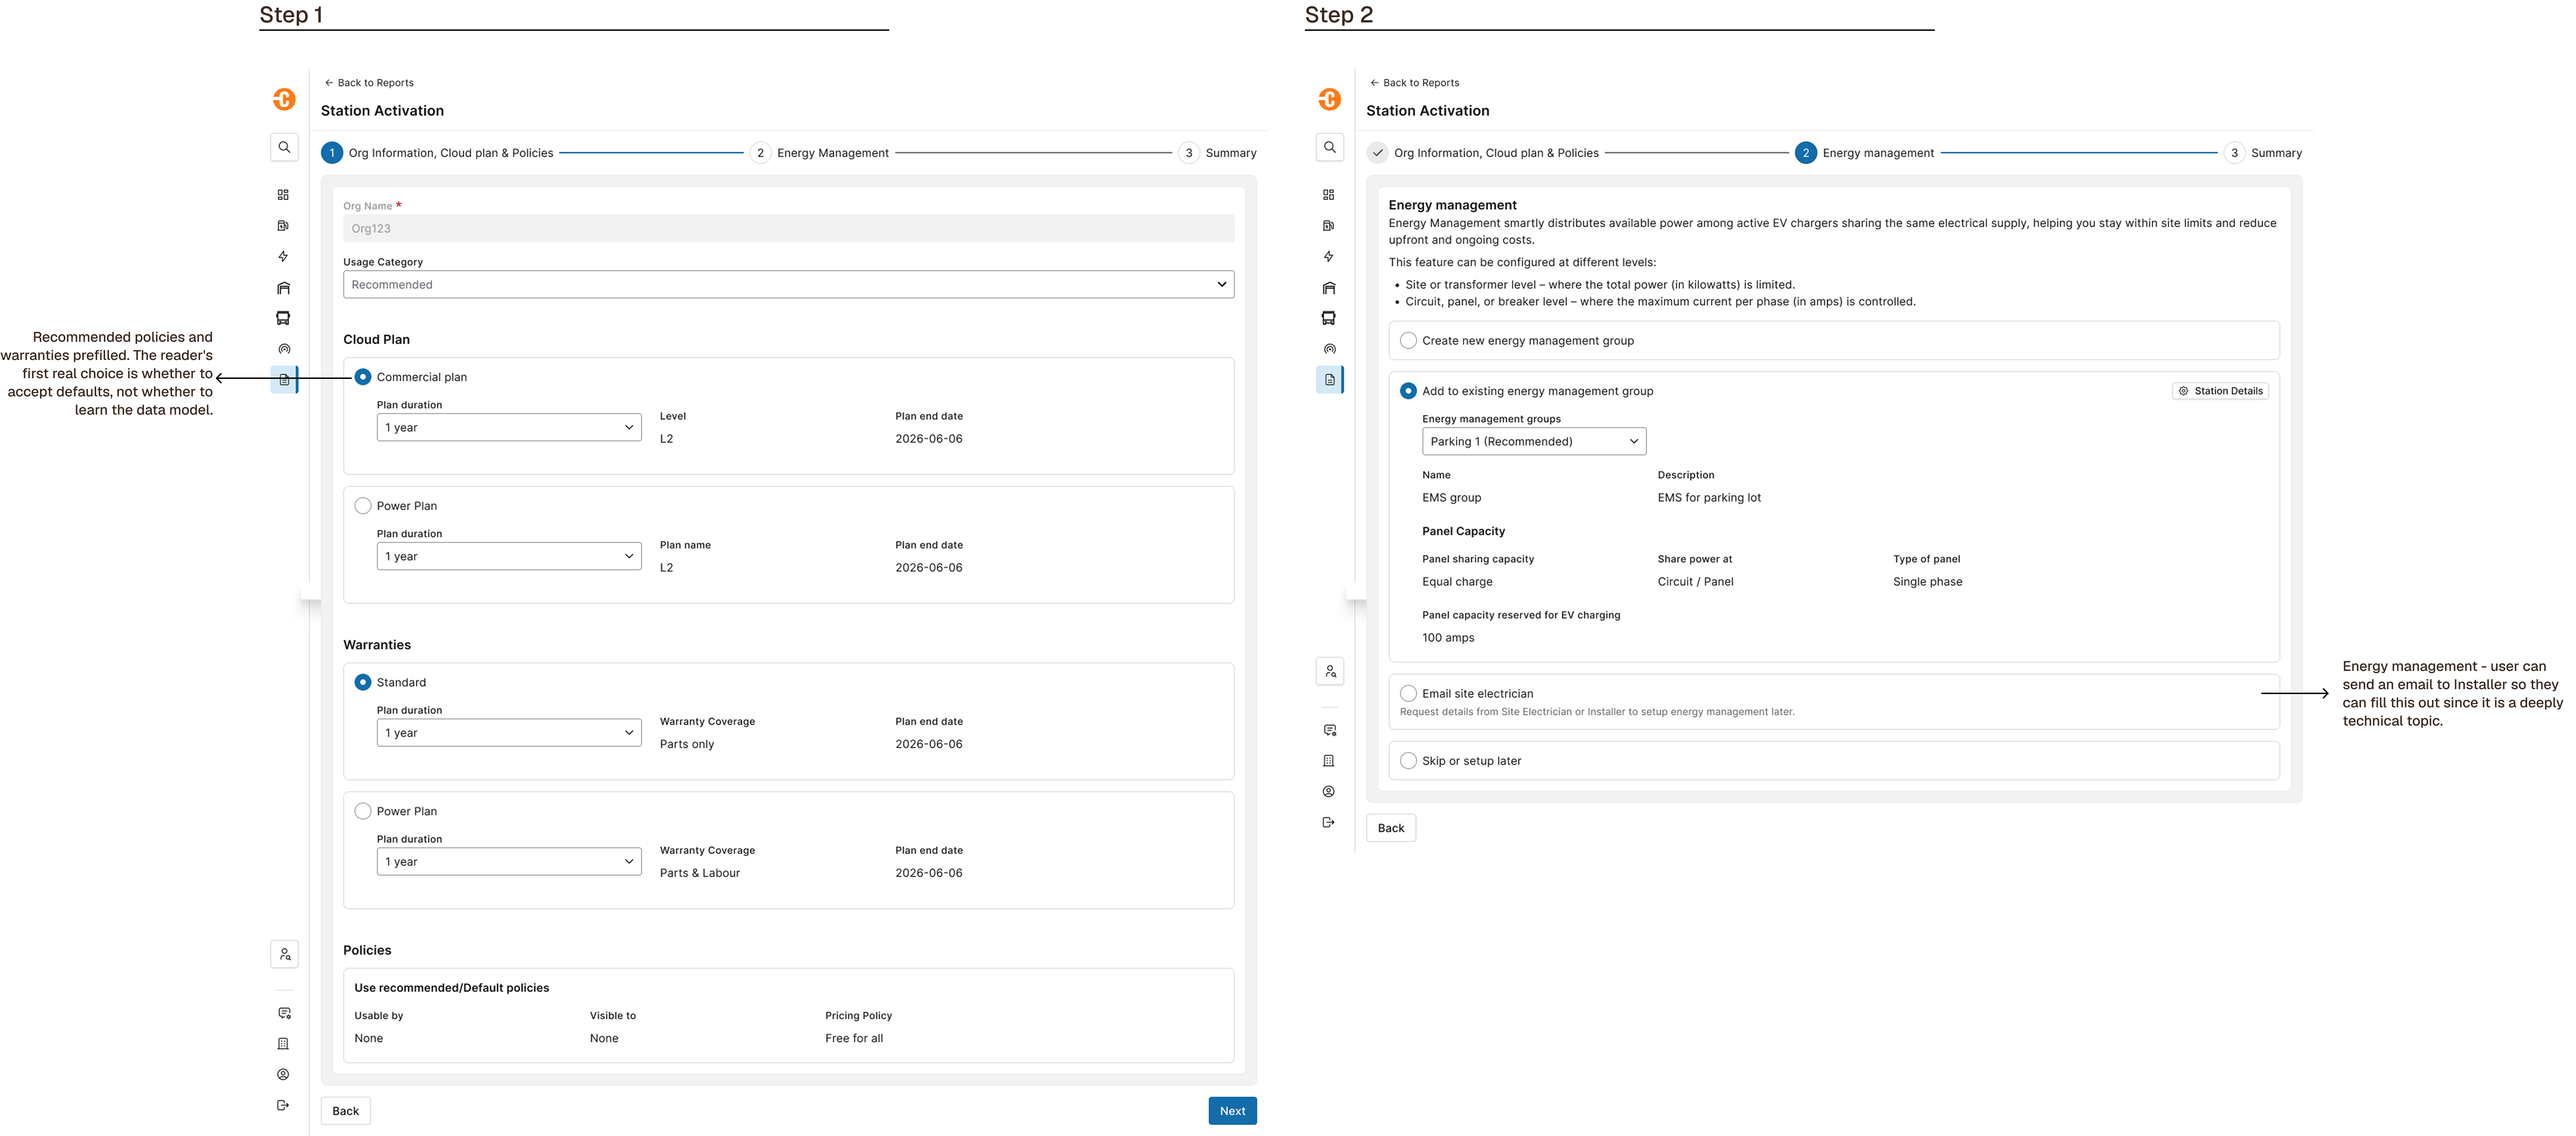
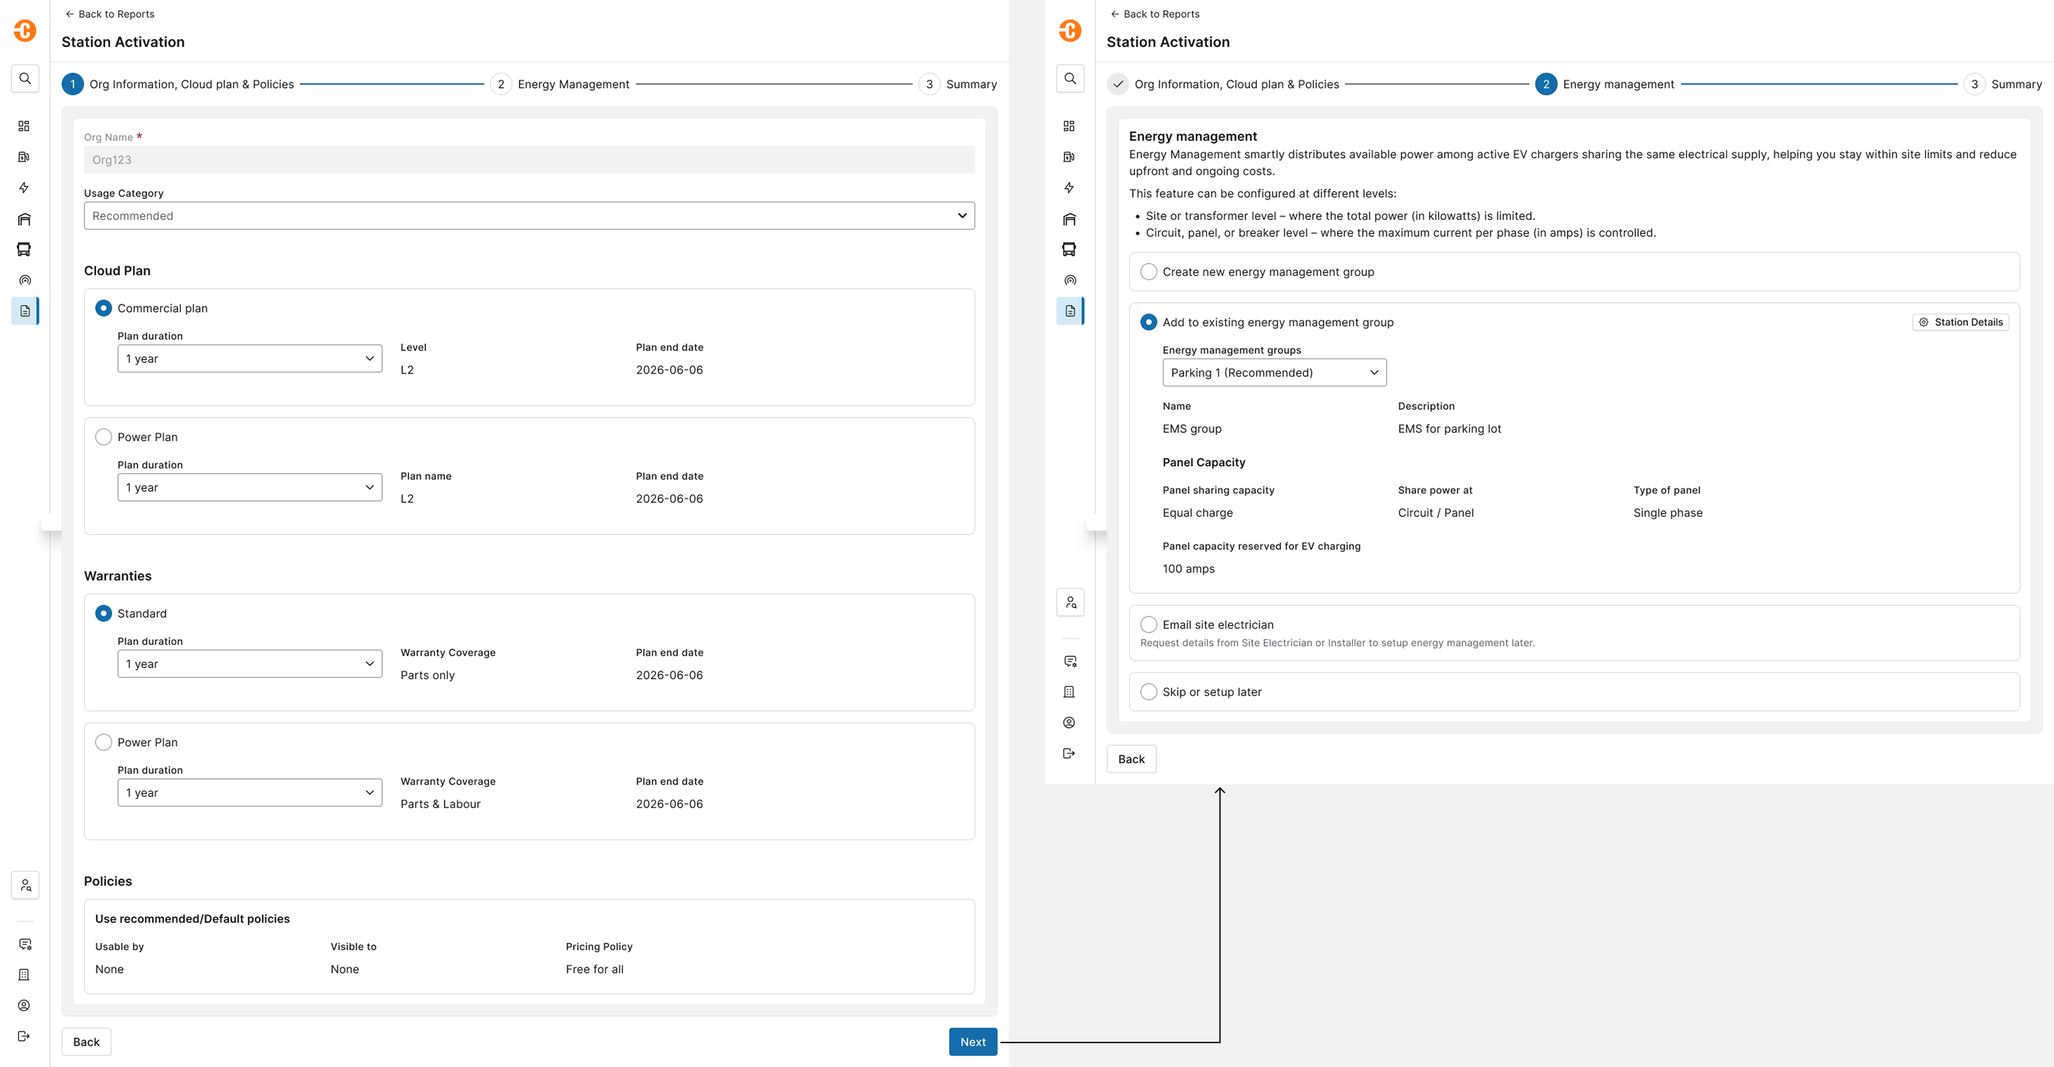
feat(activation): cleaned figures, framed hero, and steadier header phones
Refresh the Station Activation case study with the text-removed exports and
tighten the shared case-study hero treatments.

- Replace the eight activation figures with header/annotation-free exports and
  update their dimensions; rewrite captions from the source notes
- advanced-token switches to a full-width landscape layout
- Add a framed activation hero (the Charging Management shot) via a new
  overlayHeroFramed flag and .framed-shot bezel, cropped free of annotations
- Header phones stay three-across at every width (no wrap) and carry a thinner
  bezel with tighter corners; .device--full and .framed-shot self-carry the
  frame tokens so they render outside .stack-card

diff --git a/data/projects.ts b/data/projects.ts
@@ -48,6 +48,9 @@ export type Project = {
   // When set, the overlay opens with a row of device-framed phones (same frame
   // chrome as the home-page stack) instead of a single flat hero image.
   overlayHeroPhones?: { src: string; width: number; height: number; alt: string }[];
+  // When true, the overlay hero (a laptop/desktop shot) renders inside the
+  // dark bezel stroke instead of flat on the mat.
+  overlayHeroFramed?: boolean;
   images: string[]; // first is the hero/panel image
   subtitle: string;
   meta: { label: string; value: string }[];
@@ -271,6 +274,8 @@ export const projects: Project[] = [
     accent: "#0E7C86",
     accentText: "#0E7C86",
     hero: { src: "/projects/activation-hero.png", width: 11402, height: 6646 },
+    overlayHero: { src: "/projects/activation/overlay-hero.png", width: 3410, height: 2212 },
+    overlayHeroFramed: true,
     images: ["/projects/activation.png"],
     subtitle:
       "Replacing an expert-only, support-dependent activation with a self-serve workflow any admin can run, designed embedded with engineering through build and design QA.",
@@ -309,8 +314,8 @@ export const projects: Project[] = [
         images: [
           {
             src: "/projects/activation/walked-into.png",
-            width: 2625,
-            height: 651,
+            width: 1750,
+            height: 434,
             layout: "full",
             caption:
               "Reshaping the work: one MVP workstream split into four topic-scoped phases, each with its own handoff, UAT, and CX testing across the year.",
@@ -330,19 +335,19 @@ export const projects: Project[] = [
         images: [
           {
             src: "/projects/activation/entry-point.png",
-            width: 13482,
-            height: 4164,
+            width: 10486,
+            height: 3978,
             layout: "full",
             caption:
-              "The entry point: a Charger Management banner surfaces stations ready to activate; the list groups them by model family and site address.",
+              "The entry point: a Charger Management banner surfaces stations ready to activate. The list groups them by model family and common address, so twenty identical chargers read as one card, the foundation bulk activation would later be built on.",
           },
           {
             src: "/projects/activation/wizard-steps.png",
-            width: 7352,
-            height: 3244,
+            width: 5864,
+            height: 3048,
             layout: "full",
             caption:
-              "The three-step wizard (Org & Plan, then Energy Management) with recommended defaults prefilled.",
+              "Step 1, Org & Plan: recommended policies and warranties prefilled, so the reader’s first real choice is whether to accept defaults, not whether to learn the data model. Step 2, Energy Management: the user can email the installer to fill in this deeply technical section.",
           },
         ],
       },
@@ -363,18 +368,18 @@ export const projects: Project[] = [
         images: [
           {
             src: "/projects/activation/copy-config.png",
-            width: 6454,
-            height: 4872,
+            width: 5264,
+            height: 4726,
             layout: "full",
             caption: "Copy / Import Configuration reuses an activated station’s plan, policy, and group settings.",
           },
           {
             src: "/projects/activation/advanced-token.png",
-            width: 5182,
-            height: 6376,
-            layout: "wide",
+            width: 10552,
+            height: 3494,
+            layout: "full",
             caption:
-              "Advanced Token Selection with sales-order and date detail, and the token-mismatch recovery dialog that turns a dead end into a fixable state.",
+              "Advanced Token Selection: the sales order, token start date, end date, and purchase order behind each token. The token-mismatch dialog turns a dead end into a fixable state.",
           },
         ],
       },
@@ -389,17 +394,19 @@ export const projects: Project[] = [
         images: [
           {
             src: "/projects/activation/failure-states.png",
-            width: 3982,
-            height: 2874,
+            width: 5160,
+            height: 4798,
             layout: "full",
-            caption: "Pre-activation blockers surfaced early: uncommissioned hardware, gateway offline, GPS pending.",
+            caption:
+              "Pre-activation blockers surfaced early: (1) incomplete pinpointing, (2) a warning for a missing gateway, and (3) a hard block for uncommissioned DC stations.",
           },
           {
             src: "/projects/activation/async-progress.png",
-            width: 5274,
-            height: 2244,
+            width: 6968,
+            height: 3670,
             layout: "full",
-            caption: "Async activation progress, so a long-running activation reads as progress, not a frozen screen.",
+            caption:
+              "Per-station status that persists across page reloads, so operators stop wondering if the system is stuck. The modal gives explicit success, in-progress, and failure states, with retry on the failures that need it.",
           },
         ],
       },
@@ -410,10 +417,11 @@ export const projects: Project[] = [
         images: [
           {
             src: "/projects/activation/dc-cluster.png",
-            width: 3800,
-            height: 3370,
+            width: 5160,
+            height: 5686,
             layout: "full",
-            caption: "Cluster ports nested under their parent Chargebox.",
+            caption:
+              "A 13-port DC cluster collapsed under one parent Chargebox. What used to be thirteen rows is now one.",
           },
         ],
       },

diff --git a/styles/globals.css b/styles/globals.css
@@ -428,15 +428,54 @@ html.lenis-stopped body {
     inset -1px 0 0 rgba(0, 0, 0, 0.2),
     0 20px 38px -24px rgba(20, 24, 28, 0.62);
   width: 238px;
-  padding: 8px;
-  border-radius: 26px;
+  padding: 5px;
+  border-radius: 16px;
 }
 .device--full .device__screen {
-  border-radius: 18px;
+  border-radius: 12px;
   border: 1px solid rgba(255, 255, 255, 0.18);
 }
 .device--full .device__screen img {
   object-fit: contain;
+}
+
+/* Case-study header phone row: always three across, never wrapping. Each phone
+   caps at its natural 238px but shrinks to share the row on narrow screens. */
+.hero-phones {
+  display: flex;
+  flex-wrap: nowrap;
+  justify-content: center;
+  align-items: flex-start;
+  gap: clamp(8px, 2vw, 24px);
+}
+.hero-phones .device--full {
+  width: auto;
+  flex: 0 1 238px;
+  min-width: 0;
+}
+
+/* Wide framed screenshot (a laptop/desktop shot with the same bezel stroke as
+   the phones), for a case-study hero that is not a phone. Self-carries the
+   frame tokens so it works outside .stack-card. */
+.framed-shot {
+  --frame: linear-gradient(152deg, #5b6068 0%, #33373d 42%, #1b1e22 100%);
+  --frame-shadow:
+    inset 0 1px 0 rgba(255, 255, 255, 0.3),
+    inset 1px 0 0 rgba(255, 255, 255, 0.1),
+    inset -1px 0 0 rgba(0, 0, 0, 0.2),
+    0 20px 38px -24px rgba(20, 24, 28, 0.62);
+  display: block;
+  padding: 10px;
+  border-radius: 20px;
+  background: var(--frame);
+  box-shadow: var(--frame-shadow);
+}
+.framed-shot img {
+  display: block;
+  width: 100%;
+  height: auto;
+  border-radius: 11px;
+  border: 1px solid rgba(255, 255, 255, 0.18);
 }
 
 /* ---------- responsive ----------

diff --git a/app/components/CaseStudyOverlay.tsx b/app/components/CaseStudyOverlay.tsx
@@ -306,7 +306,7 @@ export default function CaseStudyOverlay({ project, onClose, onNavigate }: Props
             phone-scale width instead of stretching the full column. */}
         {project.overlayHeroPhones ? (
           <div className="mt-2xl overflow-hidden rounded-xs border border-hairline bg-hairline-soft p-lg">
-            <div className="flex flex-wrap items-start justify-center gap-lg py-xl">
+            <div className="hero-phones py-xl">
               {project.overlayHeroPhones.map((p) => (
                 <div key={p.src} className="device device--full">
                   <div
@@ -319,6 +319,19 @@ export default function CaseStudyOverlay({ project, onClose, onNavigate }: Props
                 </div>
               ))}
             </div>
+          </div>
+        ) : project.overlayHeroFramed ? (
+          <div className="mt-2xl overflow-hidden rounded-xs border border-hairline bg-hairline-soft p-lg">
+            <span className="framed-shot">
+              <Image
+                src={(project.overlayHero ?? project.hero).src}
+                alt={project.title}
+                width={(project.overlayHero ?? project.hero).width}
+                height={(project.overlayHero ?? project.hero).height}
+                priority
+                sizes="(max-width: 1200px) 100vw, 1000px"
+              />
+            </span>
           </div>
         ) : (
           (() => {
